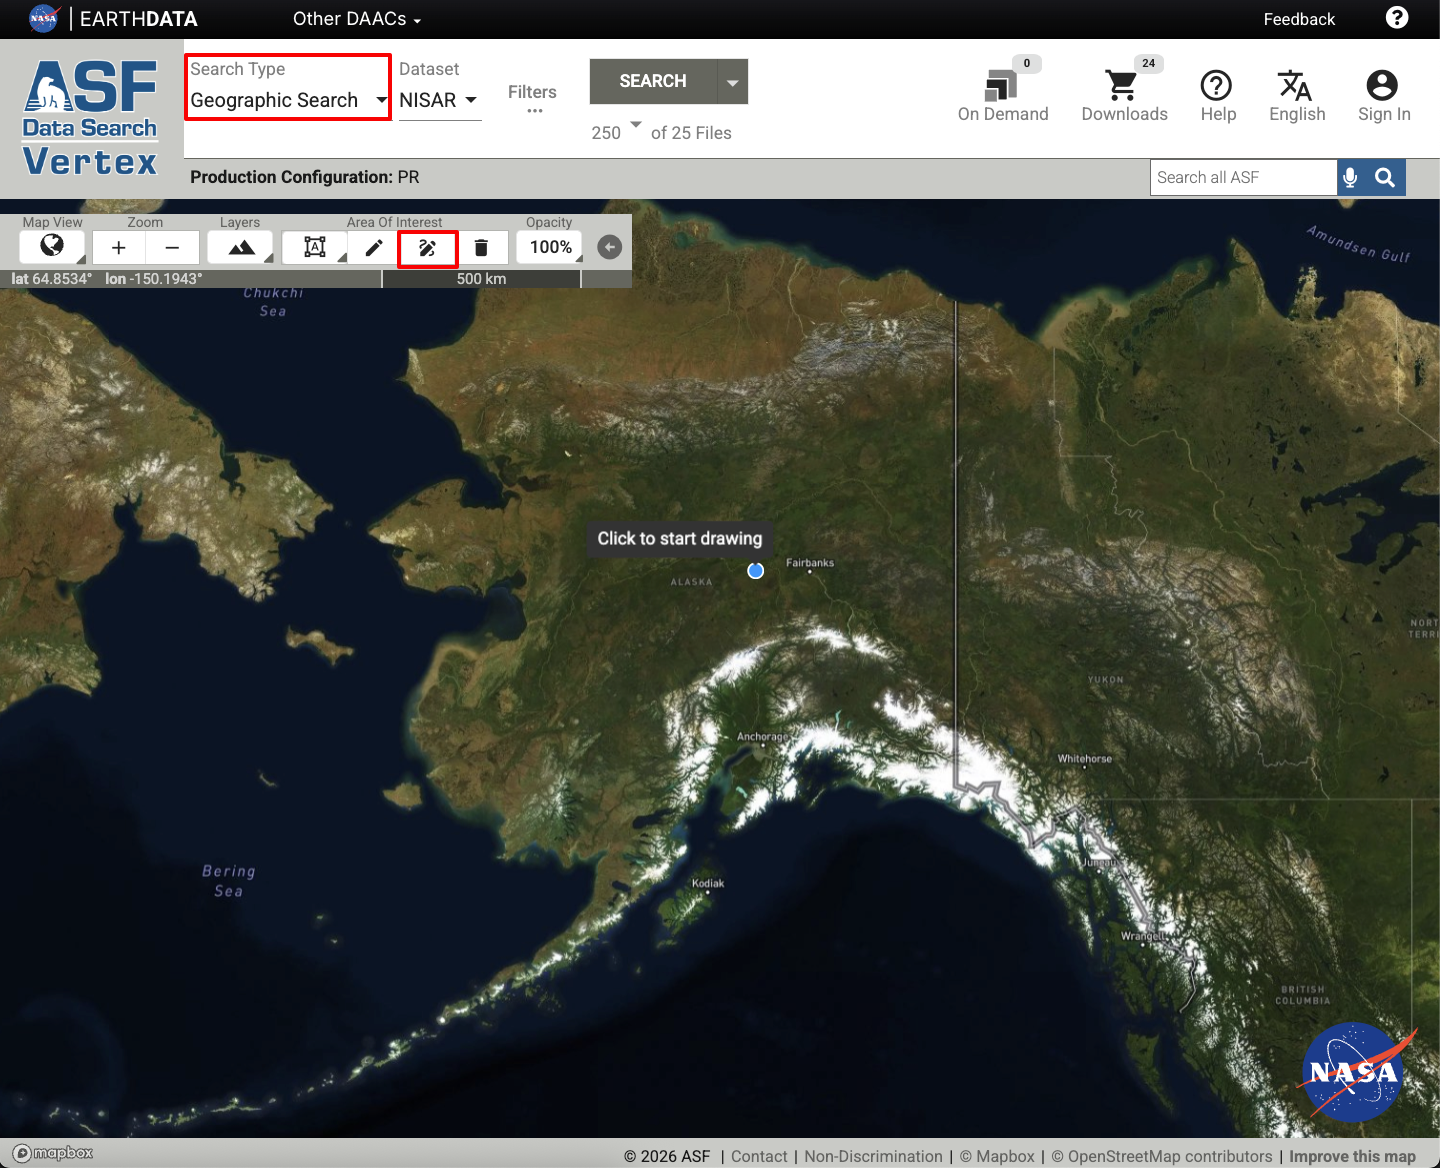
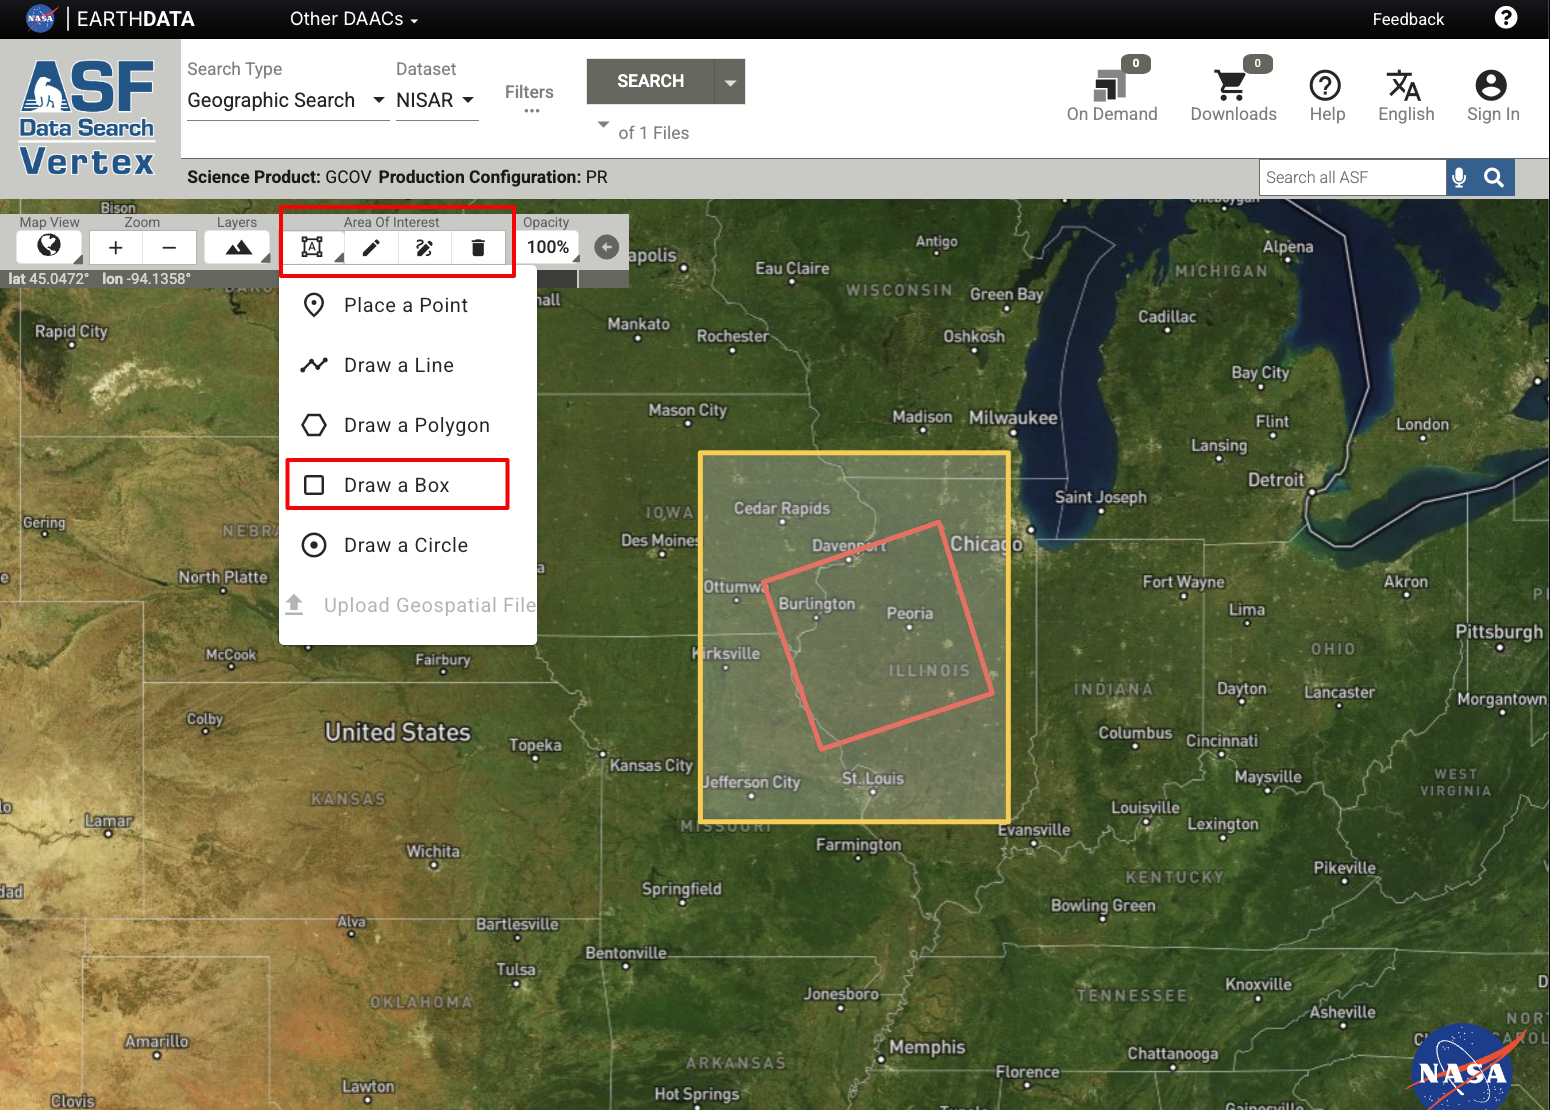
update figures

diff --git a/accessing-nisar/vertex.md b/accessing-nisar/vertex.md
@@ -11,8 +11,7 @@ short_title: Vertex Data Search
 ## Using Vertex to Access NISAR Data
 
 ### 1. Search for NISAR data
-Navigate to [Vertex](https://search.asf.alaska.edu/#/?dataset=NISAR&prodConfig=PR) to search for NISAR datasets specifically. If not already selected, make sure to set the **Search Type** to `Geographic Search` and select `NISAR` from the **Dataset** menu. 
-
+Navigate to [Vertex](https://search.asf.alaska.edu/#/?dataset=NISAR&prodConfig=PR) and set the **Search Type** to `Geographic Search` and select `NISAR` from the **Dataset** menu. Press **Search** to explore search results. 
 
 ```{figure} ../assets/vertex-dataset-selection.png
 :label: vertex-dataset-selection
@@ -22,7 +21,9 @@ Navigate to [Vertex](https://search.asf.alaska.edu/#/?dataset=NISAR&prodConfig=P
 Click on the "Dataset" button and select "NISAR" to search for NISAR products. 
 ```
 
-Toggle on drawing mode to draw a region of interest to search for products that lie within that area. The left-most "Area of Interest" button offers selection between a point, line, polygon, box, circle, or by uploading a geospatial file. 
+### 2. Filter for desired products
+
+To search for specific geographic region, click on the left-most "Area of Interest" button to select to draw a point, line, polygon, box, circle, or by uploading a geospatial file. Toggle on drawing mode to draw a region of interest to search for products that lie within that area. Then press **Search** to update the search for the new region of interest.
 
 ```{figure} ../assets/vertex-geographic-search.png
 :label: vertex-geographic-search
@@ -30,9 +31,8 @@ Toggle on drawing mode to draw a region of interest to search for products that 
 :align: center
 
 ```
-Click the **Filters** button to expose additional parameters that can be used to narrow your search. 
 
-The **Filters** panel enables date-based filtering. Specify a start and end date to define the search range. 
+To search for products in a specific range, open the **Filters** panel and specify a start and end date to define the search range. 
 
 ```{figure} ../assets/vertex-date-filters.png
 :label: vertex-date-filters
@@ -42,9 +42,7 @@ The **Filters** panel enables date-based filtering. Specify a start and end date
 The option to filter by date pops up after clicking on "Filters"
 ```
 
-### 2. Refine results with NISAR-specific filters
-
-NISAR-specific filters are available to more precisely search for NISAR data products. 
+NISAR-specific filters are available to more precisely search for NISAR data products. The [Vertex Getting Started User Guide](https://docs.asf.alaska.edu/vertex/manual/#product-filters) also documents all the filters and options.
 
 ```{figure} ../assets/vertex-nisar-filters.png
 :label: vertex-nisar-filters
@@ -87,17 +85,9 @@ Users can also search by Track and Frame. Note that Track is NISAR's convention 
 
 ### 3. Download data
 
-Data are free and available to download through Vertex. Once the desired scene is selected, click on the shopping cart icon in the scene listed. This will add the scene to your Downloads, which is the shopping cart icon on the top right hand of the screen. 
+Data are free and available to download through Vertex. Once the desired scene is selected, a list of files will appear on the right-hand side of the screen or below the scene details, depending on how wide the browser screen is. For the majority of users, only the `HDF5` file is necessary to download. To learn more about HDF5 files, see @data-format. 
 
-```{figure} ../assets/vertex-add-to-downloads.png
-:label: vertex-add-to-downloads
-:alt: Screenshot highlight the download button next to desired product and the "Downloads" icon that will dispaly file options. 
-:align: center
-
-Add files from desired granules to the Downloads cart by clicking the shopping cart button.
-```
-
-The Download queue will have eight files added per selected scene. For the majority of users, only the `hdf5` file is necessary to download. Click the download icon next to the HDF5 file name to save locally. 
+Click the download icon next to the HDF5 file name to save locally. If not yet logged in with an EDL account, a pop up window will prompt you for you credentials. 
 
 ```{figure} ../assets/vertex-download-files.png
 :label: vertex-download-files
